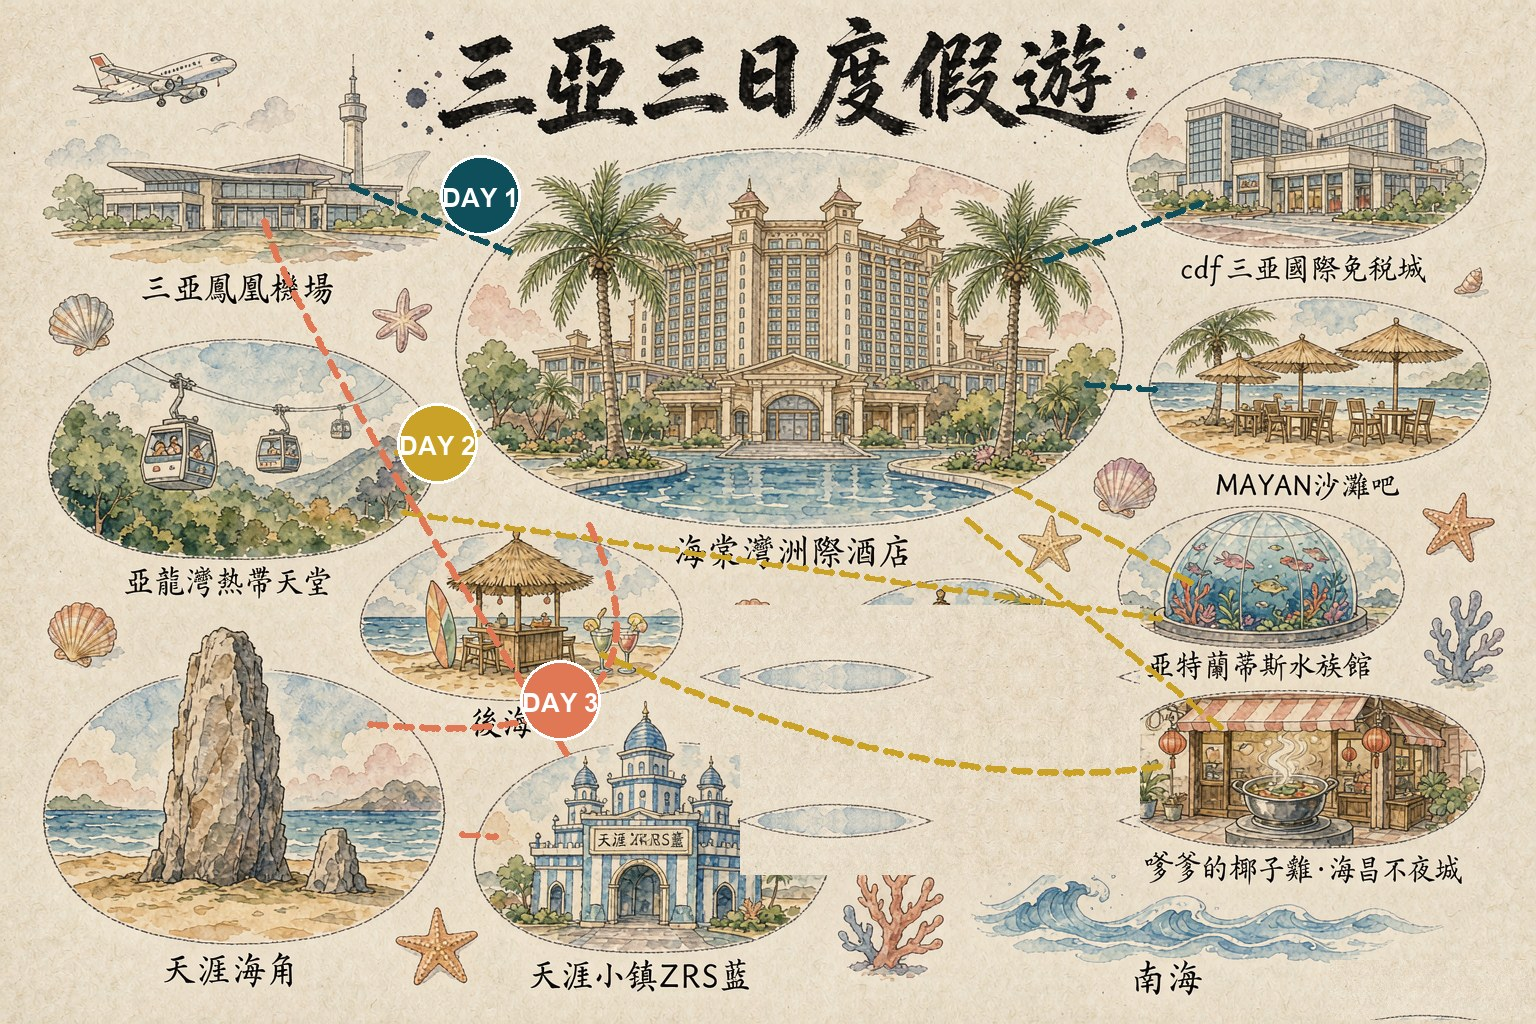
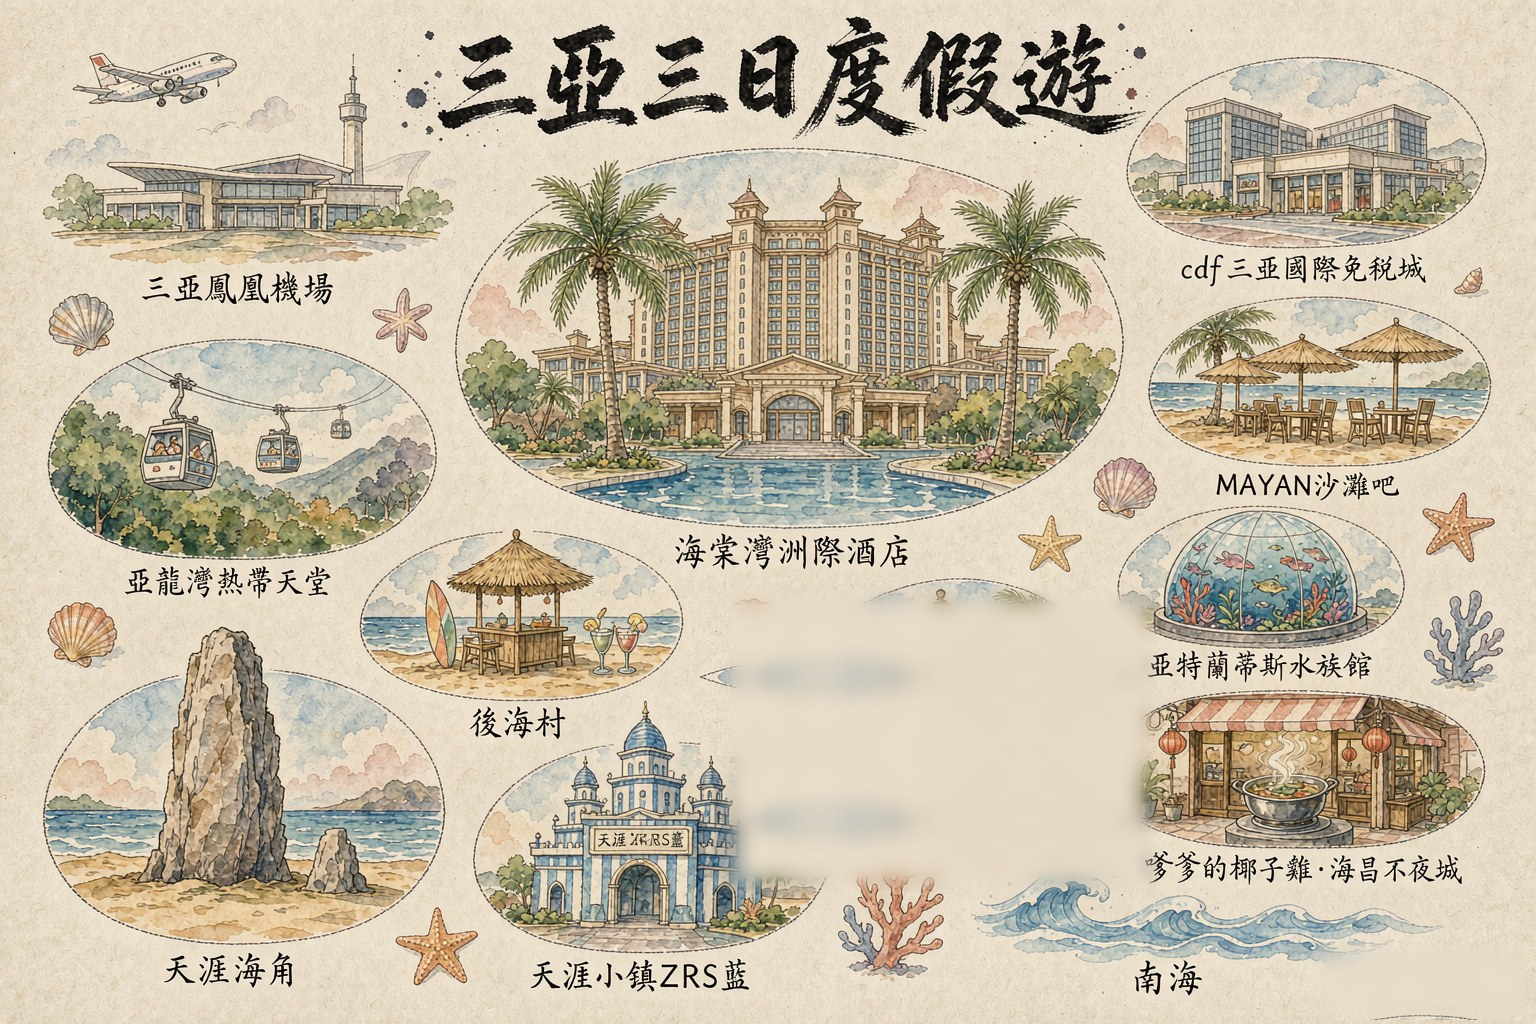
Sanya cover map: remove route lines and day badges per request - key locations only, softened patch seams, caption simplified to location list

diff --git a/sanya/index.html b/sanya/index.html
@@ -705,7 +705,7 @@ table.t tr.sum td:first-child{color:var(--sea-700)}
              loading="lazy" decoding="async"
              width="1536" height="1024">
       </div>
-      <figcaption class="summ__caption">海棠灣地理動線 — Day 1：機場 → 飯店 → 瑰麗午餐 → 免稅城採購　·　Day 2：亞龍灣 → 亞特蘭蒂斯 → 嗲嗲晚餐 → 後海　·　Day 3：天涯海角 → 天涯小鎮 → 機場</figcaption>
+      <figcaption class="summ__caption">行程關鍵位置一覽：機場 · 酒店 · 瑰麗 MAYAN · 免稅城 · 亞龍灣 · 亞特蘭蒂斯 · 嗲嗲的椰子雞 · 後海村 · 天涯海角 · 天涯小鎮 ZRS 藍</figcaption>
     </figure>
   </div>
 </section>

diff --git a/sanya/assets/cartoon-preview/cover_overlay.py b/sanya/assets/cartoon-preview/cover_overlay.py
@@ -1,6 +1,6 @@
 # -*- coding: utf-8 -*-
 import math, random
-from PIL import Image, ImageDraw, ImageFont
+from PIL import Image, ImageDraw, ImageFont, ImageFilter
 
 SRC = "A_hand_drawn_watercolor_illust_2026-10-06T02-33-54.png"
 im = Image.open(SRC).convert("RGB").resize((1536, 1024), Image.LANCZOS)
@@ -111,28 +111,24 @@ def leg(a, b, color, ctrl=None):
     pts = [A, B] if ctrl is None else [qbez(A, ctrl, B, i/90.0) for i in range(91)]
     dashed(dr, pts, color)
 
-TEAL, GOLD, CORAL = (15, 79, 92), (201, 162, 39), (224, 120, 86)
-leg("airport", "hotel", TEAL)
-leg("hotel", "mayan", TEAL)
-leg("hotel", "cdf", TEAL)
-leg("hotel", "yalong", GOLD)
-leg("yalong", "aquarium", GOLD)
-leg("aquarium", "hotel", GOLD)
-leg("hotel", "diadia", GOLD)
-leg("diadia", "houhai", GOLD, ctrl=(930, 800))
-leg("hotel", "tianya", CORAL, ctrl=(700, 760))
-leg("tianya", "town", CORAL)
-leg("town", "airport", CORAL, ctrl=(280, 300))
+# 2026-10-06 per user: no route lines, no day badges — key locations only
 
-def badge(x, y, text, color, radius=40):
-    dr.ellipse([x-radius, y-radius, x+radius, y+radius], fill=color, outline=(255, 255, 255), width=3)
-    f = ImageFont.truetype("C:/Windows/Fonts/arialbd.ttf", 26)
-    bb = dr.textbbox((0, 0), text, font=f)
-    dr.text((x-(bb[2]-bb[0])/2, y-(bb[3]-bb[1])/2-2), text, font=f, fill=(255, 255, 255))
+def soften(x0, y0, x1, y1, rad=9, feather=20):
+    """Blur the filled area to hide tile seams, feathered at borders."""
+    box = (max(0, x0 - feather), max(0, y0 - feather),
+           min(W, x1 + feather), min(H, y1 + feather))
+    region = im.crop(box).filter(ImageFilter.GaussianBlur(rad))
+    mask = Image.new('L', (box[2] - box[0], box[3] - box[1]), 0)
+    md = mask.load()
+    for yy in range(mask.height):
+        for xx in range(mask.width):
+            dx = min(xx, mask.width - 1 - xx)
+            dy = min(yy, mask.height - 1 - yy)
+            md[xx, yy] = int(255 * min(1.0, min(dx, dy) / feather))
+    im.paste(region, box, mask)
 
-badge(480, 195, "DAY 1", TEAL)
-badge(437, 443, "DAY 2", GOLD)
-badge(560, 700, "DAY 3", CORAL)
+soften(740, 605, 1140, 875)
+soften(1330, 960, W - 4, H - 4)
 
 im.save("cover_no_wm.png")
 im.resize((1080, 720)).save("_cover_prev.png")
